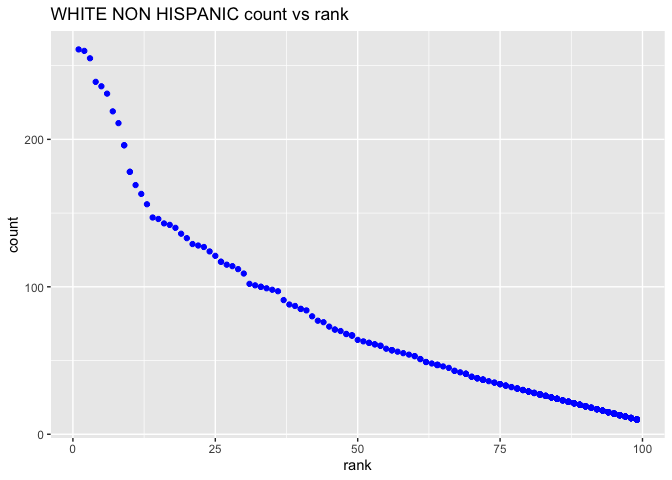
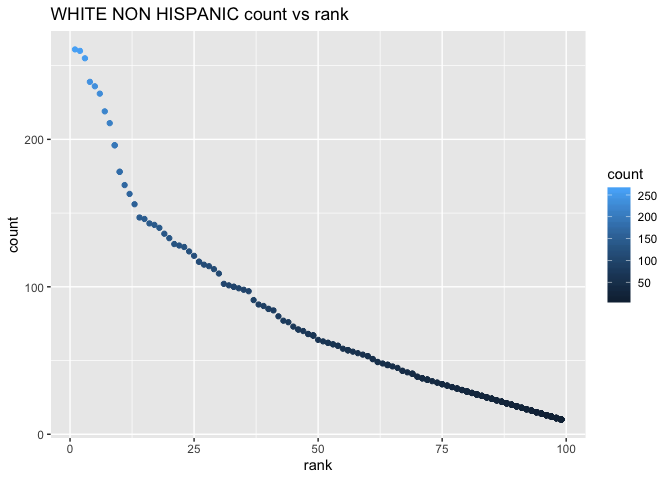
change some mistakes about interpretation

diff --git a/p8105_hw2_ys3298.md b/p8105_hw2_ys3298.md
@@ -9,14 +9,14 @@ Yimeng SHANG
 library(tidyverse)
 ```
 
-    ## ── Attaching packages ───────────────────────────────────────────────────────────────────────────────────────────────── tidyverse 1.2.1 ──
+    ## ── Attaching packages ──────────────────────────────────────────────────────────────────────── tidyverse 1.2.1 ──
 
     ## ✔ ggplot2 3.2.1     ✔ purrr   0.3.2
     ## ✔ tibble  2.1.3     ✔ dplyr   0.8.3
     ## ✔ tidyr   1.0.0     ✔ stringr 1.4.0
     ## ✔ readr   1.3.1     ✔ forcats 0.4.0
 
-    ## ── Conflicts ──────────────────────────────────────────────────────────────────────────────────────────────────── tidyverse_conflicts() ──
+    ## ── Conflicts ─────────────────────────────────────────────────────────────────────────── tidyverse_conflicts() ──
     ## ✖ dplyr::filter() masks stats::filter()
     ## ✖ dplyr::lag()    masks stats::lag()
 
@@ -80,19 +80,21 @@ precipi
 
 From the data, we can notice that the total precipitations for 2014-2018
 are 51.59, 43.21, 39.95, 32.93 and 23.5 respectively, which decrease
-year by year. For trash\_wheel dataset, there are 285 observations.
-Variables from this dataset include “year”, “month”, “date”, numbers of
-“plastic bottles”, “glass bottles” etc. For precipitation dataset,
-there are 19 observations(excluding the total number for whole year in
-2017 and 2018.). Variables include year, month and total number of
-precipitation in each month in 2017 and 2018.
+year by year. For trash\_wheel dataset, there are 285 observations and
+14 variables. Key Variables from this dataset include “dumpster”,
+“year”, “month”, “date”, numbers of “plastic bottles”, “glass
+bottles” etc. For precipitation dataset, there are 19
+observations(excluding the total number for whole year in 2017 and
+2018.) and 14 variables. Key Variables include year, month and total
+number of precipitation in each month in 2017 and 2018.
 
-The median numbers of sports balls in a dumpster in 2014-2018 are 6, 16,
-26, 8, 3. The mean numbers of plastic bottle in a dumpster in 2014-2018
-are 1540, 1960, 2980, 2260, 995. The mean numbers of grocery bags in
-2014-2018 are 880, 1392, 2292, 1939, 676. From these data, we can easily
-noticed that the number of sports balls, plastic bottle and grocery bags
-firstly increased and then decrease from 2014 to 2018.
+The total precipitation in 2018 is 23.5 inches. The median numbers of
+sports balls in a dumpster in 2014-2018 are 6, 16, 26, 8, 3. The mean
+numbers of plastic bottle in a dumpster in 2014-2018 are 1540, 1960,
+2980, 2260, 995. The mean numbers of grocery bags in 2014-2018 are 880,
+1392, 2292, 1939, 676. From these data, we can easily noticed that the
+number of sports balls, plastic bottle and grocery bags firstly
+increased and then decrease from 2014 to 2018.
 
 # PROBLEM2
 
@@ -102,7 +104,7 @@ pols = read_csv("../data/pols-month.csv") %>%
   janitor::clean_names() %>%
   separate(mon, into = c("year", "month", "day"), convert = TRUE) %>%
   mutate(month = month.abb[as.factor(month)],
-         president = factor(prez_gop, labels = c("dem", "gop", "others(shown as 2 in prez_gop)"))) %>%
+         president = factor(prez_gop, labels = c("dem", "gop", "gop"))) %>%   ##take"2" also as "gop"
   select(-prez_dem, -prez_gop, -day)
 ```
 
@@ -122,10 +124,10 @@ pols = read_csv("../data/pols-month.csv") %>%
 ``` r
 snp = read_csv("../data/snp.csv") %>%
   janitor::clean_names() %>%
-  separate(date, into = c("day", "month", "year"), convert = TRUE) %>%
+  separate(date, into = c("month", "day", "year"), convert = TRUE) %>%
   arrange(year, month) %>%
   mutate(month = month.abb[as.factor(month)]) %>%
-  select(year, month, everything())
+  select(year, month, close, -day)
 ```
 
     ## Parsed with column specification:
@@ -136,7 +138,13 @@ snp = read_csv("../data/snp.csv") %>%
 
 ``` r
 # tidy the unemployment data 
-unemploy = read_csv("../data/unemployment.csv")
+tidy_unemploy = read_csv("../data/unemployment.csv") %>%
+  pivot_longer(
+    Jan:Dec,
+    names_to = "month",
+    values_to = "unemployment") %>%
+  select(year = Year, everything()) %>%
+  mutate( year = as.integer(year))
 ```
 
     ## Parsed with column specification:
@@ -157,15 +165,6 @@ unemploy = read_csv("../data/unemployment.csv")
     ## )
 
 ``` r
-tidy_unemploy = 
-  pivot_longer(
-    unemploy,
-    Jan:Dec,
-    names_to = "month",
-    values_to = "unemployment") %>%
-  select(year = Year, everything()) %>%
-  mutate( year = as.integer(year))
-
 # Join the datasets 
 snp_pols = left_join(pols, snp, by = c("year", "month"))
 snp_pols_unemploy = left_join(snp_pols, tidy_unemploy, by = c("year", "month"))
@@ -173,7 +172,7 @@ snp_pols_unemploy = left_join(snp_pols, tidy_unemploy, by = c("year", "month"))
 snp_pols_unemploy
 ```
 
-    ## # A tibble: 1,391 x 12
+    ## # A tibble: 822 x 11
     ##     year month gov_gop sen_gop rep_gop gov_dem sen_dem rep_dem president
     ##    <int> <chr>   <dbl>   <dbl>   <dbl>   <dbl>   <dbl>   <dbl> <fct>    
     ##  1  1947 Jan        23      51     253      23      45     198 dem      
@@ -186,21 +185,23 @@ snp_pols_unemploy
     ##  8  1947 Aug        23      51     253      23      45     198 dem      
     ##  9  1947 Sep        23      51     253      23      45     198 dem      
     ## 10  1947 Oct        23      51     253      23      45     198 dem      
-    ## # … with 1,381 more rows, and 3 more variables: day <int>, close <dbl>,
+    ## # … with 812 more rows, and 2 more variables: close <dbl>,
     ## #   unemployment <dbl>
 
-In the pols\_month dataset, there are 9 variables related to the number
-of national politicians who are democratic or republican at any given
-time. **prez** means president, **gov** means governors, **sen** means
-senators, **rep** means representatives and **gop** means republican,
-**dem** means democratic. File “snp” contains 2 variables related to
-Standard & Poor’s stock market index (S\&P), often used as a
-representative measure of stock market as a whole. “Unemployment” shows
-percentage of unemployment in each month of the associated year. After
-we merge snp, pols and unemploy, we get a (1391, 12) dataset. We can
-clearly see what party the president is, how many governors in each
-party, how many unemployment and what’s the Standard & Poor’s stock
-market index in each month from 1947 to 2015.
+In the pols\_month dataset, there are 9 variables and 822 observations
+related to the number of national politicians who are democratic or
+republican at any given time. **prez** means president, **gov** means
+governors, **sen** means senators, **rep** means representatives and
+**gop** means republican, **dem** means democratic. File “snp” contains
+3 variables and 787 observations related to Standard & Poor’s stock
+market index (S\&P), often used as a representative measure of stock
+market as a whole. “Unemployment” shows percentage of unemployment in
+each month of the associated year, containing 3 variables and 816
+observations. After we merge snp, pols and unemploy, we get a (822, 11)
+dataset. We can clearly see what party the president is, how many
+governors in each party, how many unemployment and what’s the Standard &
+Poor’s stock market index in each month from 1947 to 2015. Key variables
+include \[year\], \[month\], \[unemployment\], \[president\] etc.
 
 # PROBLEM3
 
@@ -305,7 +306,7 @@ male = filter(names, gender == "MALE") %>%
   filter(year_of_birth == "2016") %>%
   filter(ethnicity == "WHITE NON HISPANIC")
 
-ggplot(male, aes(x = rank, y = count)) + geom_point(color = "blue") + ggtitle("WHITE NON HISPANIC count vs rank")
+ggplot(male, aes(x = rank, y = count, color = count)) + geom_point() + ggtitle("WHITE NON HISPANIC count vs rank")
 ```
 
 ![](p8105_hw2_ys3298_files/figure-gfm/unnamed-chunk-6-1.png)<!-- -->
